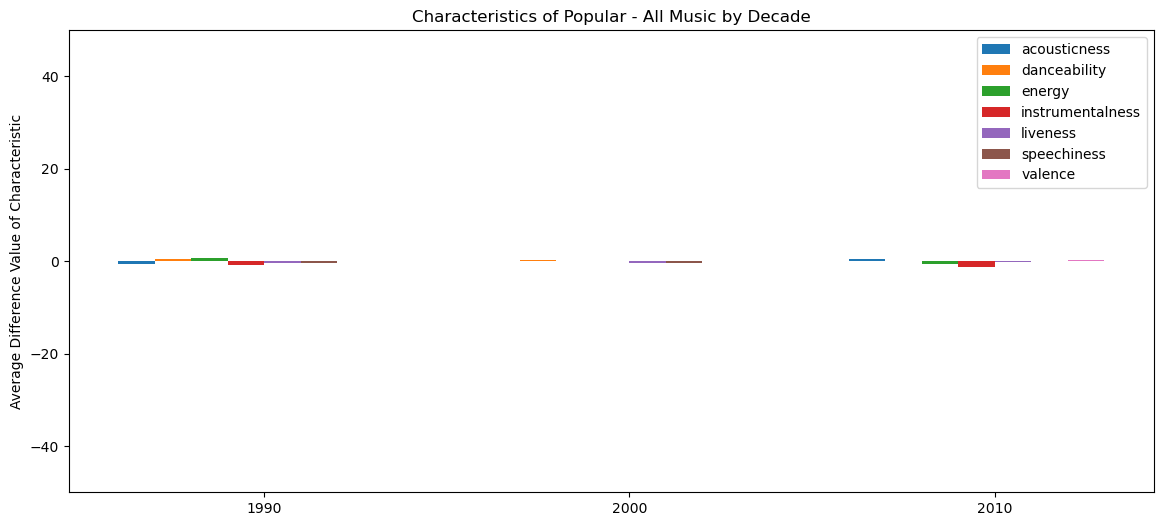
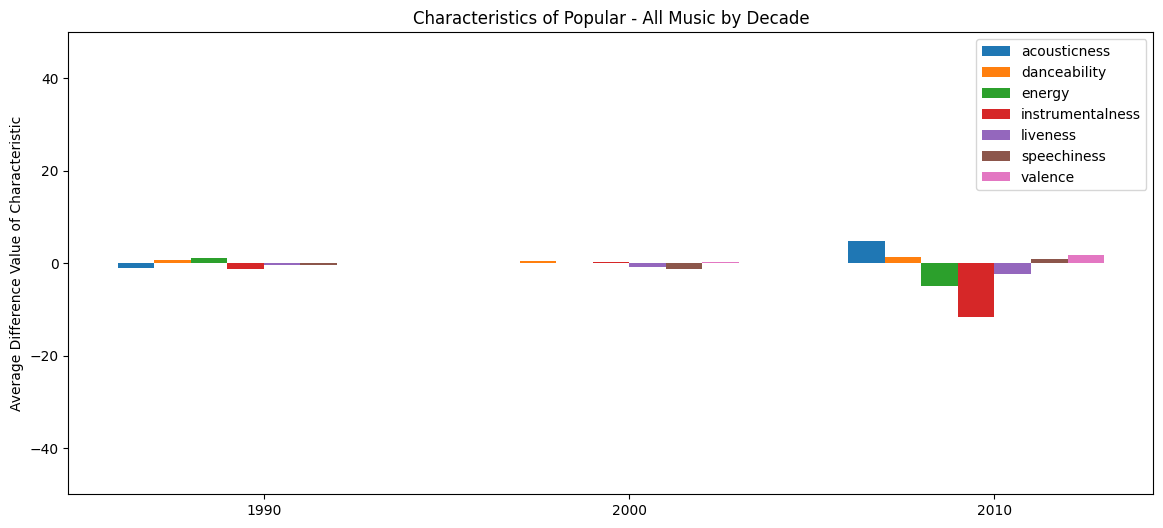
More comments

diff --git a/main.py b/main.py
@@ -14,6 +14,7 @@ def create_time_vs_characteristic():
     '''
     Plots the Change the Time vs Characteristic linear regression graph 
     outlined in the README.MD in plots
+    Plot is created in Q_1/time_vs_characteristic_Q1
     It is called Change in Danceability Over Time in the README however this method creates
     a graph for all numerical characteristics given by spotify
     '''
@@ -43,6 +44,7 @@ def create_box_time_vs_characteristic():
     '''
     Plots the Change the Time vs Characteristic box plot graph 
     outlined in the README.MD in plots
+    Plot is created in Q_1/time_vs_characteristic_Q1
     It is called Change in Danceability Over Time in the README however this method creates
     a graph for all numerical characteristics given by spotify
     '''
@@ -90,6 +92,7 @@ def plot_all_characteristic_of_music():
 def plot_characteristic_histogram():
     '''
     Creates the histograms of each characteristic for each decade from 1990-2010
+    Plot is created in plots/Q_2
     Characteristics in Popular Music is the name in the README
     '''
     sns.set()
@@ -103,6 +106,9 @@ def plot_characteristic_histogram():
     bar_width = 0.1
     fig, ax = plt.subplots(figsize=(14, 6))
 
+
+    # Since this plot plots the x-axis as decades but it needs to be separated by characteristics
+    # Have to manually place bars onto the plot and then set them with a legend
     for i, char in enumerate(characteristic_100_range):
         ax.bar(x_axis + i * bar_width, decade_char[char], bar_width, label=char)
 
@@ -120,20 +126,25 @@ def plot_characteristic_histogram():
 
 def plot_difference_characteristic_histogram():
     '''
-    
+    Creates the histogram that subtracts the average value of popular music - unpopular music
+    from 1990-2010
+    Plot is created in plots/Q_2
+    Differences in Characteristics of Popular Music and Unpopular Music in README
+    Reference README to see more detailed description and reasoning behind plot
     '''
     spot_df = load_spot_df_for_char()
     spot_df = spot_df[(spot_df['decade'] >= 1990) & (spot_df['decade'] < 2020)]
     characteristic_100_range = ['acousticness', 'danceability', 'energy', 'instrumentalness',
                                 'liveness', 'speechiness', 'valence']
-    spot_tot_df = pd.read_csv('raw_data/spotify_dataset_clean.csv')
-    spot_tot_df = spot_tot_df.drop(['name', 'artists'], axis=1)
-    spot_tot_df['decade'] = spot_tot_df['year'].floordiv(10).mul(10)
-    spot_tot_df = spot_tot_df[(spot_tot_df['decade'] >= 1990) & (spot_tot_df['decade'] < 2020)]
+    
+    unpop_df = pd.read_csv('data_organized/unpopular_music.csv')
+    unpop_df = unpop_df.drop(['name', 'artists'], axis=1)
+    unpop_df['decade'] = unpop_df['year'].floordiv(10).mul(10)
+    unpop_df = unpop_df[(unpop_df['decade'] >= 1990) & (unpop_df['decade'] < 2020)]
 
     decade_pop_char = spot_df.groupby('decade')[characteristic_100_range].mean()
-    decade_tot_char = spot_tot_df.groupby('decade')[characteristic_100_range].mean() * 100
-    decade_char = decade_pop_char - decade_tot_char
+    decade_unpop_char = unpop_df.groupby('decade')[characteristic_100_range].mean()
+    decade_char = decade_pop_char - decade_unpop_char
 
     x_axis = np.arange(3)
     bar_width = 0.1
@@ -148,7 +159,7 @@ def plot_difference_characteristic_histogram():
     ax.set_xticklabels([1990, 2000, 2010])
 
     plt.ylabel('Average Difference Value of Characteristic')
-    plt.title('Characteristics of Popular - All Music by Decade')
+    plt.title('Characteristics of Popular - Unpopular Music by Decade')
     plt.ylim(-50, 50)
     plt.legend()
     plt.savefig('plots/Q_2/characteristic_difference_histogram', bbox_inches='tight')
@@ -156,6 +167,12 @@ def plot_difference_characteristic_histogram():
 
 
 def load_spot_df_for_char():
+    '''
+    The spotify_dataset is a good dataset and all of the columns are often used
+    However, when looking at average characterisitcs strings cause issues with aggregate functions
+    Loads in the spotify dataset with some more pre-processing (drops name and artist columns and 
+    computates decade column)
+    '''
     spot_df = pd.read_csv('data_organized/spotify_dataset.csv')
     spot_df = spot_df.drop(['name', 'artists'], axis=1)
     spot_df['decade'] = spot_df['year'].floordiv(10).mul(10)
@@ -163,6 +180,13 @@ def load_spot_df_for_char():
 
 
 def char_violin_plot():
+    '''
+    Plots a violin plot for all numeric characteristics ranging from 0 - 100
+    Each decade from 1920-2020 gets its own plot
+    Plot is created in plots/Q_2/decade_violin_plot
+    Violin Plot of Characteristics of Popular Music in README
+    Reference for further description
+    '''
     spot_df = load_spot_df_for_char()
     relevant_columns = ['acousticness', 'danceability', 'energy', 'instrumentalness',
                         'liveness', 'speechiness', 'valence', 'decade']

diff --git a/plots/README.md b/plots/README.md
@@ -30,7 +30,7 @@ All of your generated plots need to be saved here. It should contain only images
 **Characteristics in Popular Music:** This is a histogram/bar plot and summarizes all of the characteristics in each decade and their average values for popular music. The sketch displays data from 1990-2010 because more decades would create a cluttered plot and an "overload" of information. If further analysis is necesarry than plots will be created for 1920-1990. This will help show what musical characteristics will most likely be present to create popular music.
 
 
-**Differences in Characteristics of Popular Music and All Music:** This is a histogram/bar plot and displays the average value of each characteristic for popular music subtracted by the average value of each characteristic for all music. This will display what is different between popular music and all music and that difference can help suggest what makes popular music popular, what the difference is.
+**Differences in Characteristics of Popular Music and Unpopular Music:** This is a histogram/bar plot and displays the average value of each characteristic for popular music subtracted by the average value of each characteristic for unpopular music. This will display what is different between popular music and unpopular music and that difference can help suggest what makes popular music popular, what the difference is.
 
 
 **Traits VS. Popularity:** This is a line plot that compares all of the average musical characteristics against popularity. This will help display what characteristics are associated with popular music and will help create the next graph that displays mathematical information to suggest what music has a strong correlation with popularity.
